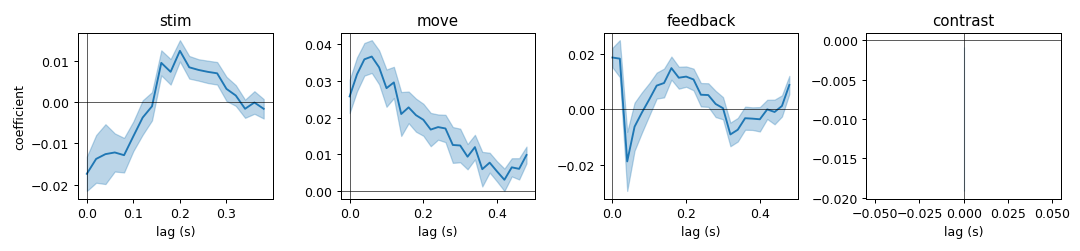
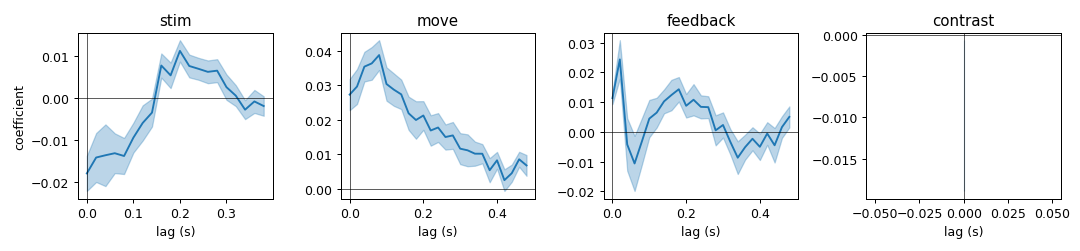
Make binning a real library step; remove vestigial dt in favor of bin_width (seconds)
design.py gains bin_spikes / events_from_times / resample_continuous (raw seconds -> grid); the
library is now unit-coherent (seconds only at binning, bins thereafter). viz dt -> bin_width.
IBL build refactored to bin via the library (DT -> BIN_S). Both reproductions still PASS
(IBL D2 corr 1.0000, w 0.9983; Chantranupong R2 dphi 7e-4). README: binning helpers, units column,
honest significance-calibration finding (Wilcoxon conservative OK; permutation anti-conservative,
needs recalibration).

diff --git a/design.py b/design.py
@@ -1,16 +1,61 @@
-"""Shift-kernel design-matrix construction -- a jaxGLM-native port of the Sabatini `sglm`
-timeshift tooling (sglm/features/sglm_pp.py). Turns event / predictor time series into a GLM
-design matrix where each predictor is expanded into a bank of time-shifted copies (its kernel).
+"""Design-matrix construction for jaxGLM: bin raw event/spike/signal times onto a time grid,
+then expand predictors into shift-kernels. A jaxGLM-native port of the Sabatini `sglm` tooling.
 
-Convention matches pandas `.shift` / sglm: a `+k` column places the predictor k samples LATER,
-so the fitted coefficient on `name_+k` is the response at lag +k (k samples AFTER the event);
-`-k` is k samples before. Edges are zero-filled (no wraparound).
+Units convention (this is the only place physical time enters the pipeline):
+  - raw inputs are in SECONDS: spike/event times, t_start, bin_width.
+  - `bin_width` (seconds) defines the grid; everything downstream is indexed in BINS.
+  - `shifts` in build_design are integer BIN lags (a +k column = predictor k bins later, so the
+    coefficient on `name_+k` is the response k bins AFTER the event; -k is before). Zero-filled
+    at edges (no wraparound) -- matches pandas `.shift` / sglm.
+  - counts (spikes per bin) and indicator values are dimensionless.
 
-Pure numpy (no jax/pandas) so it composes with anything; feed the resulting X straight into
+Pure numpy (no jax/pandas) so it composes with anything; the binned X/Y feed straight into
 poisson_glm / encoding.
 """
 import re
 import numpy as np
+
+
+# ------------------------------------------------------------------- binning (seconds -> bins)
+def make_grid(t_start, t_stop, bin_width):
+    """Define the time grid. t_start/t_stop/bin_width in SECONDS. Returns (t_start, bin_width,
+    n_bins); n_bins covers [t_start, t_stop)."""
+    n_bins = int(np.floor((t_stop - t_start) / bin_width))
+    return t_start, bin_width, n_bins
+
+
+def bin_spikes(spike_times, spike_units, n_units, t_start, bin_width, n_bins):
+    """Spike counts per bin per unit -> Y (n_bins, n_units).
+    spike_times : array, SECONDS.  spike_units : int array, the unit column (0..n_units-1) for
+    each spike; negative / out-of-range entries are dropped.  t_start, bin_width : SECONDS."""
+    bi = np.floor((np.asarray(spike_times) - t_start) / bin_width).astype(int)
+    su = np.asarray(spike_units)
+    keep = (bi >= 0) & (bi < n_bins) & (su >= 0) & (su < n_units)
+    Y = np.zeros((n_bins, n_units))
+    np.add.at(Y, (bi[keep], su[keep]), 1.0)
+    return Y
+
+
+def events_from_times(event_times, t_start, bin_width, n_bins):
+    """Binary indicator (n_bins,) with 1.0 in the bin containing each event time.
+    event_times, t_start, bin_width : SECONDS. NaN / out-of-range events are dropped."""
+    bi = np.floor((np.asarray(event_times, dtype=float) - t_start) / bin_width)
+    bi = bi[np.isfinite(bi)].astype(int)
+    bi = bi[(bi >= 0) & (bi < n_bins)]
+    v = np.zeros(n_bins)
+    v[bi] = 1.0
+    return v
+
+
+def resample_continuous(sample_times, values, t_start, bin_width, n_bins):
+    """Average a continuous signal (e.g. photometry) onto the grid -> (n_bins,).
+    sample_times, t_start, bin_width : SECONDS. Empty bins are 0."""
+    bi = np.floor((np.asarray(sample_times) - t_start) / bin_width).astype(int)
+    vals = np.asarray(values, dtype=float)
+    keep = (bi >= 0) & (bi < n_bins)
+    out = np.zeros(n_bins); cnt = np.zeros(n_bins)
+    np.add.at(out, bi[keep], vals[keep]); np.add.at(cnt, bi[keep], 1.0)
+    return out / np.maximum(cnt, 1.0)
 
 
 def shift_signal(v, k):
@@ -27,8 +72,9 @@ def shift_signal(v, k):
 
 
 def events_from_indices(indices, T):
-    """Binary indicator vector of length T with 1.0 at each valid sample index.
-    NaN / out-of-range indices are dropped (handy for trial-table event columns)."""
+    """Binary indicator vector of length T with 1.0 at each valid BIN index (use when events are
+    already given as grid indices, e.g. NWB trial-table '*_index' columns; for event times in
+    seconds use events_from_times). NaN / out-of-range indices are dropped."""
     v = np.zeros(T)
     idx = np.asarray(indices, dtype=float)
     idx = idx[np.isfinite(idx)]
@@ -40,9 +86,11 @@ def events_from_indices(indices, T):
 def build_design(predictors, shifts):
     """Expand predictors into a shift-kernel design matrix.
 
-    predictors : dict {name: 1-D array length T} -- event indicators or continuous regressors.
-    shifts     : a range / list of ints applied to every predictor, OR a dict
-                 {name: list_of_shifts} for per-predictor windows.
+    predictors : dict {name: 1-D array length T} -- event indicators or continuous regressors,
+                 already on the time grid (n_bins long).
+    shifts     : integer BIN lags -- a range / list applied to every predictor, OR a dict
+                 {name: list_of_shifts} for per-predictor windows. (To express a window in
+                 seconds, divide by bin_width: e.g. +/-0.5 s at 20 ms -> range(-25, 26).)
     Returns (X (T, total_shifts), names) where names are '{predictor}_{shift}'. No intercept
     column (the solver adds the intercept). Pass X to standardize()/fit_units().
     """

diff --git a/viz.py b/viz.py
@@ -12,13 +12,13 @@ import numpy as np
 from design import kernels_from_weights
 
 
-def _lag_axis(shifts, dt):
-    return shifts * dt if dt else shifts
+def _lag_axis(shifts, bin_width):
+    return shifts * bin_width if bin_width else shifts
 
 
-def plot_kernels(W, names, dt=None, mean_sem=False, axes=None, figsize=None):
+def plot_kernels(W, names, bin_width=None, mean_sem=False, axes=None, figsize=None):
     """Plot each predictor's fitted kernel vs lag. W (P, U), names '{pred}_{shift}'.
-    dt: seconds per sample (x-axis in seconds if given, else in shifts).
+    bin_width: seconds per bin (x-axis in seconds if given, else in bins).
     mean_sem: if True, plot mean +/- s.e.m. across units; else one line per unit.
     Returns the matplotlib Figure."""
     import matplotlib.pyplot as plt
@@ -32,7 +32,7 @@ def plot_kernels(W, names, dt=None, mean_sem=False, axes=None, figsize=None):
         fig = axes[0].figure
     for ax, pred in zip(axes, preds):
         shifts, k = ker[pred]                       # (S,), (S, U)
-        x = _lag_axis(shifts, dt)
+        x = _lag_axis(shifts, bin_width)
         if mean_sem:
             m = k.mean(1); sem = k.std(1) / np.sqrt(k.shape[1])
             ax.plot(x, m, color="C0")
@@ -41,22 +41,22 @@ def plot_kernels(W, names, dt=None, mean_sem=False, axes=None, figsize=None):
             for u in range(k.shape[1]):
                 ax.plot(x, k[:, u], alpha=0.5, lw=1)
         ax.axvline(0, color="k", lw=0.5); ax.axhline(0, color="k", lw=0.5)
-        ax.set_title(pred); ax.set_xlabel("lag (s)" if dt else "shift")
+        ax.set_title(pred); ax.set_xlabel("lag (s)" if bin_width else "lag (bins)")
     axes[0].set_ylabel("coefficient")
     fig.tight_layout()
     return fig
 
 
-def plot_reconstruction(Y, mu, unit=0, window=None, dt=None, ax=None):
+def plot_reconstruction(Y, mu, unit=0, window=None, bin_width=None, ax=None):
     """Predicted (mu) vs actual (Y) signal for one unit over a window. Y, mu: (T, U)."""
     import matplotlib.pyplot as plt
     if ax is None:
         _, ax = plt.subplots(figsize=(9, 2.6))
     a, b = window or (0, min(Y.shape[0], 2000))
-    t = np.arange(a, b) * (dt or 1.0)
+    t = np.arange(a, b) * (bin_width or 1.0)
     ax.plot(t, np.asarray(Y)[a:b, unit], color="0.4", lw=1, label="actual")
     ax.plot(t, np.asarray(mu)[a:b, unit], color="C3", lw=1, label="predicted")
-    ax.set_xlabel("time (s)" if dt else "sample"); ax.set_ylabel(f"unit {unit}")
+    ax.set_xlabel("time (s)" if bin_width else "bin"); ax.set_ylabel(f"unit {unit}")
     ax.legend(loc="upper right", fontsize=8)
     return ax.figure
 
@@ -77,18 +77,18 @@ def event_triggered_average(signal, event_idx, pre, post):
     return lags, snips.mean(0), snips.std(0) / np.sqrt(len(snips))
 
 
-def plot_event_reconstruction(Y, mu, event_idx, unit=0, pre=20, post=40, dt=None, ax=None):
+def plot_event_reconstruction(Y, mu, event_idx, unit=0, pre=20, post=40, bin_width=None, ax=None):
     """Event-aligned actual vs predicted average for one unit (the sglm reconstruction plot)."""
     import matplotlib.pyplot as plt
     if ax is None:
         _, ax = plt.subplots(figsize=(4, 3))
     lags, ya, ysem = event_triggered_average(np.asarray(Y)[:, unit], event_idx, pre, post)
     _, ma, msem = event_triggered_average(np.asarray(mu)[:, unit], event_idx, pre, post)
-    x = _lag_axis(lags, dt)
+    x = _lag_axis(lags, bin_width)
     for m, s, c, lab in [(ya, ysem, "0.4", "actual"), (ma, msem, "C3", "predicted")]:
         ax.plot(x, m, color=c, label=lab)
         ax.fill_between(x, m - s, m + s, color=c, alpha=0.3)
     ax.axvline(0, color="k", lw=0.5)
-    ax.set_xlabel("lag (s)" if dt else "shift"); ax.set_ylabel(f"unit {unit}")
+    ax.set_xlabel("lag (s)" if bin_width else "lag (bins)"); ax.set_ylabel(f"unit {unit}")
     ax.legend(fontsize=8)
     return ax.figure

diff --git a/ibl/build_and_reference.py b/ibl/build_and_reference.py
@@ -35,10 +35,10 @@ lut = -np.ones(label.size, dtype=int); lut[good] = np.arange(U)
 print(f"good units: {U}")
 
 # ---- binning / window
-DT = 0.02
+BIN_S = 0.02
 PRE, POST = 0.5, 2.0
-NB = int(round((PRE + POST) / DT))          # bins per trial
-S0 = int(round(PRE / DT))                    # bin index of stimulus onset
+NB = int(round((PRE + POST) / BIN_S))          # bins per trial
+S0 = int(round(PRE / BIN_S))                    # bin index of stimulus onset
 L_STIM, L_MOVE, L_FB = 20, 25, 25            # FIR lag counts per event
 NCOL = L_STIM + L_MOVE + L_FB + 1
 valid = ~np.isnan(stimOn)
@@ -52,21 +52,13 @@ SHIFTS = {"stim": range(0, L_STIM), "move": range(0, L_MOVE),
           "feedback": range(0, L_FB), "contrast": [0]}
 X_blocks, Y_blocks, names = [], [], None
 for ti in tidx:
-    t0 = stimOn[ti] - PRE
-    m = (st >= t0) & (st < t0 + NB * DT)
-    bi = np.clip(((st[m] - t0) / DT).astype(int), 0, NB - 1)
-    col = lut[sc[m]]; keep = col >= 0
-    Ytr = np.zeros((NB, U)); np.add.at(Ytr, (bi[keep], col[keep]), 1.0)
-
-    stim = np.zeros(NB); stim[S0] = 1.0
-    mv = np.zeros(NB)
-    if not np.isnan(move[ti]):
-        mb = int(round((move[ti] - stimOn[ti] + PRE) / DT))
-        if 0 <= mb < NB: mv[mb] = 1.0
-    fbv = np.zeros(NB)
-    if not np.isnan(feedback[ti]):
-        fbb = int(round((feedback[ti] - stimOn[ti] + PRE) / DT))
-        if 0 <= fbb < NB: fbv[fbb] = 1.0
+    t0 = stimOn[ti] - PRE                                       # window start (s)
+    m = (st >= t0) & (st < t0 + NB * BIN_S)                     # spikes in this window
+    Ytr = dz.bin_spikes(st[m], lut[sc[m]], U, t0, BIN_S, NB)    # counts (NB, U)
+    # event indicators from event TIMES (events_from_times drops NaN / out-of-window)
+    stim = dz.events_from_times([stimOn[ti]], t0, BIN_S, NB)
+    mv = dz.events_from_times([move[ti]], t0, BIN_S, NB)
+    fbv = dz.events_from_times([feedback[ti]], t0, BIN_S, NB)
     contrast = np.zeros(NB); contrast[S0:] = signed[ti]
     Xtr, names = dz.build_design({"stim": stim, "move": mv, "feedback": fbv, "contrast": contrast}, SHIFTS)
     X_blocks.append(Xtr); Y_blocks.append(Ytr)

diff --git a/test_design_viz.py b/test_design_viz.py
@@ -50,7 +50,7 @@ def test_kernel_recovery():
 
     # viz smoke tests -> PNGs on netscratch
     mu = pg.predict_rate(jnp.asarray(X), W, b, "gaussian")
-    viz.plot_kernels(np.asarray(W), names, dt=1 / 18.5, mean_sem=False).savefig(f"{OUT}/kernels.png", dpi=80)
+    viz.plot_kernels(np.asarray(W), names, bin_width=1 / 18.5, mean_sem=False).savefig(f"{OUT}/kernels.png", dpi=80)
     viz.plot_reconstruction(np.asarray(Y), np.asarray(mu), unit=0, window=(0, 1500)).savefig(f"{OUT}/recon.png", dpi=80)
     viz.plot_event_reconstruction(np.asarray(Y), np.asarray(mu), ev, unit=0, pre=5, post=K).savefig(f"{OUT}/event_recon.png", dpi=80)
     for f in ("kernels.png", "recon.png", "event_recon.png"):

diff --git a/chantranupong/compare_jaxglm.py b/chantranupong/compare_jaxglm.py
@@ -38,7 +38,7 @@ print("\nCHANTRANUPONG GAUSSIAN LEVEL A:",
 # kernel figure (design.py column names -> per-predictor kernels)
 import viz
 names = d["names"]
-fig = viz.plot_kernels(W, names, dt=1.0 / 18.5, mean_sem=False)
+fig = viz.plot_kernels(W, names, bin_width=1.0 / 18.5, mean_sem=False)
 fig.savefig(os.path.join(DIR, "chantranupong_kernels.png"), dpi=90)
 print(f"kernel figure -> {os.path.join(DIR, 'chantranupong_kernels.png')}")
 np.savez(os.path.join(DIR, "chantranupong_result.npz"),

diff --git a/ibl/compare_jaxglm.py b/ibl/compare_jaxglm.py
@@ -48,6 +48,6 @@ np.savez(os.path.join(DIR, "level_a_result.npz"),
 # kernel figure: per-event encoding kernels (mean +/- s.e.m. across units)
 import viz
 names = d["names"]
-fig = viz.plot_kernels(W, names, dt=0.02, mean_sem=True)
+fig = viz.plot_kernels(W, names, bin_width=0.02, mean_sem=True)
 fig.savefig(os.path.join(DIR, "ibl_kernels.png"), dpi=90)
 print(f"kernel figure -> {os.path.join(DIR, 'ibl_kernels.png')}")

diff --git a/README.md b/README.md
@@ -15,7 +15,7 @@ a session at once** on a single GPU. Supports **Poisson** (spike counts) and **G
 
 | module | what it does |
 |---|---|
-| [`design.py`](design.py) | Build a **shift-kernel design matrix** `X` from event/regressor time series (`build_design`); parse fitted weights back into per-predictor kernels (`kernels_from_weights`). |
+| [`design.py`](design.py) | **Bin** raw spike/event/signal times onto a grid (`bin_spikes`, `events_from_times`, `resample_continuous`), build a **shift-kernel design matrix** `X` (`build_design`), and parse fitted weights back into per-predictor kernels (`kernels_from_weights`). |
 | [`poisson_glm.py`](poisson_glm.py) | The **GPU solver**: batched elastic-net GLM fit over all units (FISTA), `family="poisson"`/`"gaussian"`, plus deviance / D² / R² helpers. |
 | [`encoding.py`](encoding.py) | The **encoding model**: per-unit cross-validated λ (`cv_select_alpha`), held-out predictor-subset **ΔD²** (`predictor_importance`), and **significance** (`wilcoxon_full_vs_null`, `permutation_null_d2`). |
 | [`viz.py`](viz.py) | **Plots**: per-predictor kernels vs lag, predicted-vs-actual reconstruction, event-aligned averages. |
@@ -26,8 +26,12 @@ A typical end-to-end run:
 import jax.numpy as jnp
 import design as dz, poisson_glm as pg, encoding as enc, viz
 
-# 1. design matrix: expand events into shift-kernels (here a ±0.5 s window at 20 ms bins)
-X, names = dz.build_design({"stim": stim_onset, "reward": reward_onset}, shifts=range(-10, 30))
+# 1. bin raw times onto a grid (bin_width in SECONDS), then expand events into shift-kernels
+t0, bin_width, n_bins = 0.0, 0.02, 60_000                              # 20 ms bins
+Y = dz.bin_spikes(spike_times, spike_units, n_units, t0, bin_width, n_bins)   # (n_bins, n_units) counts
+stim   = dz.events_from_times(stim_times,   t0, bin_width, n_bins)
+reward = dz.events_from_times(reward_times, t0, bin_width, n_bins)
+X, names = dz.build_design({"stim": stim, "reward": reward}, shifts=range(-10, 30))  # bin lags
 
 # 2. fit every unit at once  (family="gaussian" for photometry)
 Xz, mean, std = pg.standardize(jnp.asarray(X))
@@ -105,11 +109,14 @@ into dense GPU matmuls — what CPU tools (sklearn one neuron at a time) cannot 
 
 Beyond `X` and `Y`, a handful of choices drive the results. What you provide, and how to pick it:
 
-**Bin size / sampling (`dt`).** `X` and `Y` must be on the *same* time grid; the bin width sets
-temporal resolution. Finer bins → sharper kernels but more bins (more compute) and sparser counts
-(Poisson). Photometry: use the native rate (e.g. 18.5 Hz). Spikes: 10–50 ms bins are typical.
-`dt` is also what `viz.plot_kernels(..., dt=…)` uses to label lags in seconds. Binning `Y` onto
-this grid is on you.
+**Binning (`bin_width`, seconds).** The library bins raw times onto the grid: `design.bin_spikes`
+(spike times → count matrix `Y`), `design.events_from_times` (event times → indicators),
+`design.resample_continuous` (a continuous signal onto the grid). All take times and `bin_width`
+in **seconds**, and `X`/`Y` come out on the same grid. The bin width is the single most
+consequential preprocessing choice: finer bins → sharper kernels but more bins (more compute) and
+sparser Poisson counts. Photometry: the native rate (~18.5 Hz → `bin_width ≈ 0.054`). Spikes:
+10–50 ms. Downstream everything is indexed in **bins**; `bin_width` only reappears to label plot
+axes in seconds (`viz.plot_kernels(..., bin_width=…)`).
 
 **Predictors and the kernel window (`shifts`).** `design.build_design(predictors, shifts)`
 expands each event into time-shifted copies. `shifts` is the lag window — e.g. `range(-10, 30)`
@@ -144,15 +151,19 @@ p≈0.005, more for stricter thresholds. Each permutation refits, so it's the ma
 **Response (`Y`) must match the family.** Poisson: nonnegative integer counts per bin. Gaussian:
 any continuous value (e.g. z-scored dF/F).
 
-| param | where | quick guidance |
-|---|---|---|
-| `family` | `fit_units`, `encoding` | `"poisson"` counts · `"gaussian"` continuous |
-| `shifts` | `build_design` | lag window per predictor; cover expected response |
-| `alpha` | `fit_units` / `alphas` grid | **CV-select**, don't hardcode |
-| `l1_ratio` | `fit_units` | `0` ridge · `1` lasso · between elastic net |
-| `fold_ids` | `encoding.*` | group **whole trials** to avoid leakage |
-| `n_perm` | `permutation_null_d2` | ≥200; trades runtime for p-resolution |
-| `max_iter`/`tol` | `fit_units` | FISTA iteration cap / stopping tolerance |
+| param | units | where | quick guidance |
+|---|---|---|---|
+| `bin_width` | **seconds** | `bin_spikes` / `events_from_times` | defines the grid; most consequential choice |
+| `shifts` | **bins** (int lags) | `build_design` | lag window per predictor; cover expected response |
+| `family` | — | `fit_units`, `encoding` | `"poisson"` counts · `"gaussian"` continuous |
+| `alpha` | — | `fit_units` / `alphas` grid | **CV-select**, don't hardcode |
+| `l1_ratio` | — (0–1) | `fit_units` | `0` ridge · `1` lasso · between elastic net |
+| `fold_ids` | — | `encoding.*` | group **whole trials** to avoid leakage |
+| `n_perm` | count | `permutation_null_d2` | ≥200; trades runtime for p-resolution |
+| `max_iter` / `tol` | iters / — | `fit_units` | iteration cap / stopping tolerance |
+
+Times in (raw inputs, `bin_width`) are **seconds**; `shifts` and everything inside the solver are
+in **bins**; counts are dimensionless. Seconds enter only at binning; bins are used thereafter.
 
 ## Validation
 
@@ -162,6 +173,11 @@ any continuous value (e.g. z-scored dF/F).
 - **Encoding & significance** ([`test_encoding.py`](test_encoding.py),
   [`test_significance.py`](test_significance.py)): ΔD² isolates an informative predictor group
   from a noise group; the significance tests flag real-signal units and not noise units.
+- **Significance calibration** ([`test_significance_calibration.py`](test_significance_calibration.py),
+  the proper reference — does the FPR equal α under the null?): the **Wilcoxon** full-vs-null test
+  is well-behaved but *conservative* (FPR ≈ 0.005–0.01 at α=0.05); the **circular-shift permutation**
+  test is currently *anti-conservative* (FPR ≈ 0.10–0.13) — it over-calls and **needs recalibration
+  before use** (re-select α inside each shuffle). Both have full power on strong signal.
 - **Published references on real public data — both families.** Each fits an *identical* design
   matrix with jaxGLM and with the standard scikit-learn fitter the relevant lab tool wraps,
   isolating the solver:
@@ -173,9 +189,10 @@ any continuous value (e.g. z-scored dF/F).
 ## Roadmap
 
 - [x] Core FISTA elastic-net solver (Poisson + Gaussian), vmapped over units / λ-grid
-- [x] Shift-kernel design-matrix construction (`design.py`)
+- [x] Raw-times binning + shift-kernel design construction (`design.py`)
 - [x] Per-unit cross-validated λ selection + held-out subset ΔD² (`encoding.py`)
-- [x] Significance testing — Wilcoxon full-vs-null + circular-shift permutation null
+- [x] Significance: Wilcoxon full-vs-null (calibrated, slightly conservative)
+- [ ] Recalibrate the permutation null (currently anti-conservative — re-select α per shuffle)
 - [x] Visualization — kernels, reconstruction, event-aligned averages (`viz.py`)
 - [x] Real-data reproductions: IBL (Poisson) and Chantranupong (Gaussian)
 - [ ] Logistic / multinomial family (choice / RL behavioral models)
